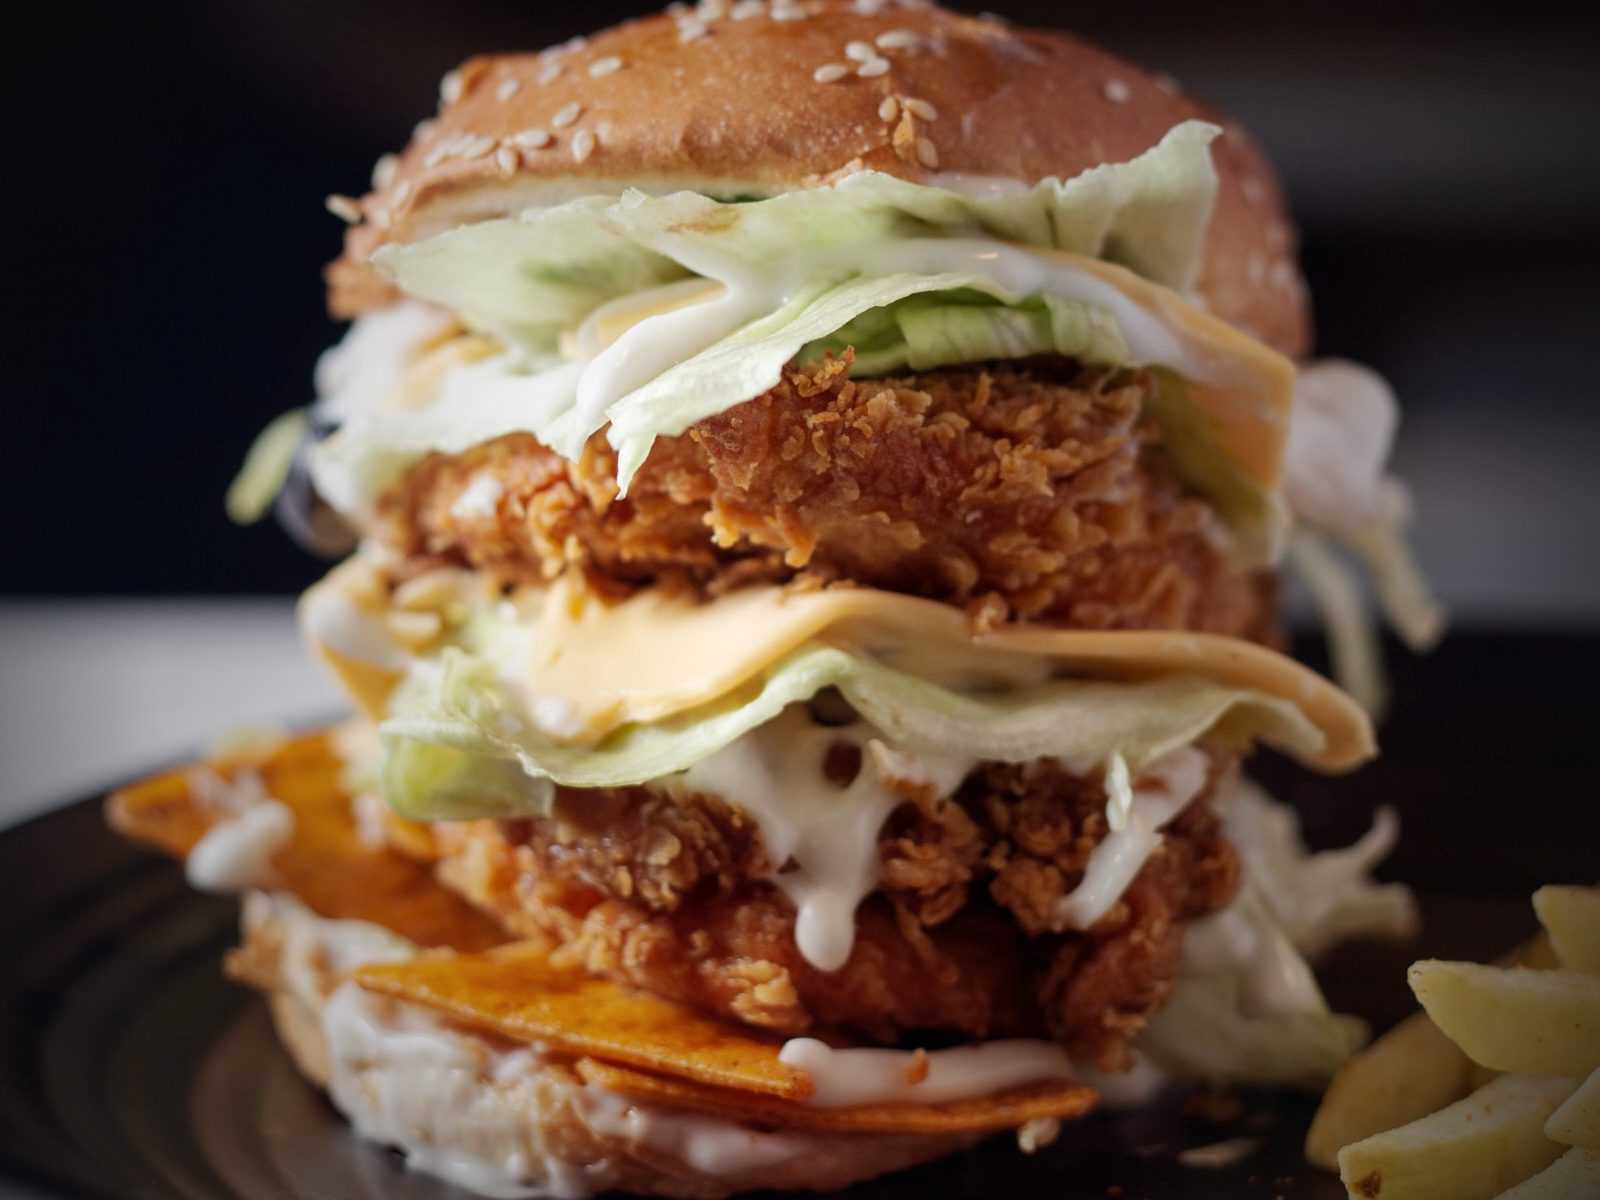
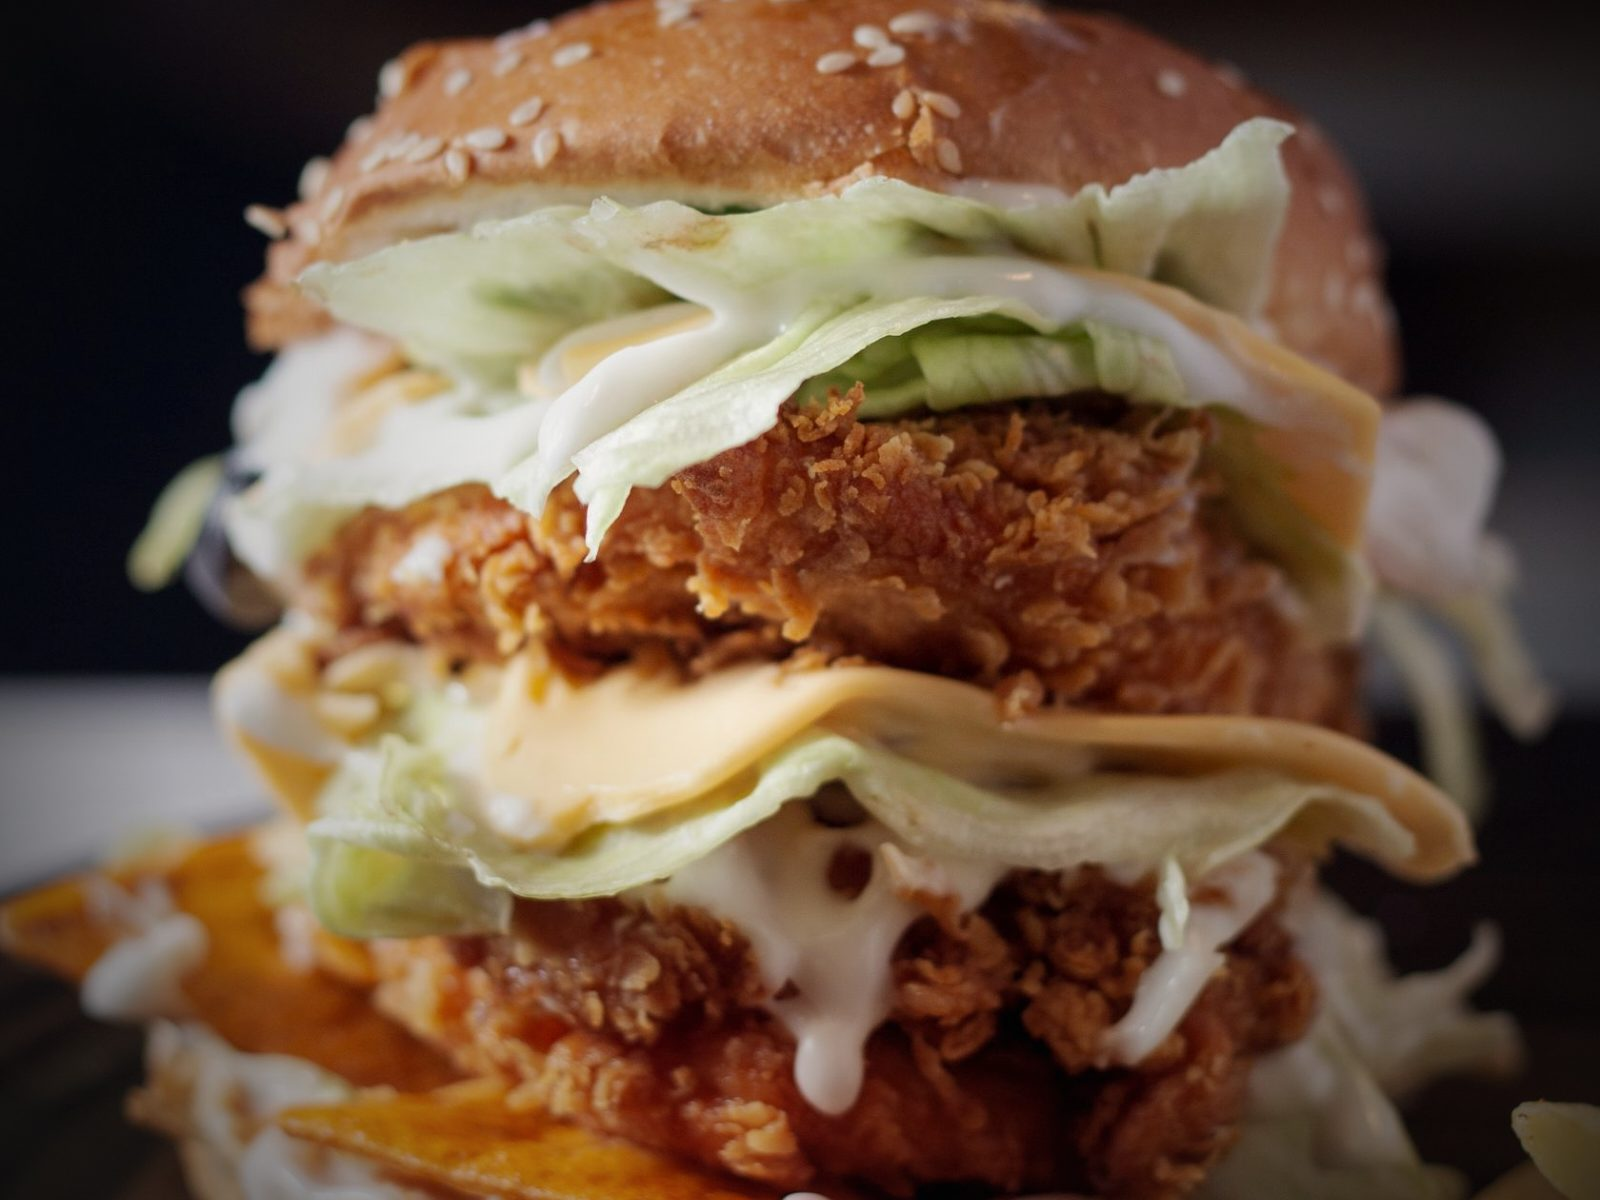
Tighten the firebird crop so the set reads as one
firebird was the only menu photo carrying a pale plate-edge field (bottom-left) and
fries (bottom-right), so at the shared crop it read a shade lighter than the other
five on the grid. Cropped tighter (zoom 0.70 vs 0.82), which drops both corners and
fills the frame with the shattered buttermilk crust — the point of the card. What is
left is bright because fried chicken is light-toned food, not because a backdrop is
leaking in. Only firebird.jpg and its CREDITS note change; the other five re-emit
byte-identical.

diff --git a/public/products/CREDITS.md b/public/products/CREDITS.md
@@ -60,14 +60,13 @@ nothing else. Rejected candidates appear only where they are named as rejected.
   charcoal-black, the cheddar is melted, the onion jam is under it. A few out-of-focus
   fries intrude at the right edge. They are dim and warm and read as part of the plate;
   the vignette takes most of them.
-- **`firebird`** — the shattered buttermilk crust, the point of the card, is legible.
-  This is the least ink-bound photograph of the six: behind the burger on the left is a
-  soft PALE GREY field rather than black, and fries sit in the bottom-right corner. The
-  vignette darkens both without erasing either, so on the grid this card reads a shade
-  lighter than its neighbours. It is the weakest link in the set and it was left alone
-  only because replacing it was outside the scope of this pass — the same
-  shot-on-black rule that condemned the other three applies to it and it is a genuine
-  candidate for a future replacement.
+- **`firebird`** — the shattered buttermilk crust, the point of the card, fills the
+  frame and is fully legible. This frame's bottom-left carried a soft pale-grey
+  plate-edge field and its bottom-right had fries, so at the set's standard crop it
+  read a shade lighter than its neighbours. It is therefore cropped tighter than the
+  rest (zoom 0.70 vs 0.82), which drops both corners; what remains is the golden fried
+  stack, which is intrinsically light-toned food rather than a stray background — an
+  honest brightness, not a backdrop leaking in.
 - Photographs showing bacon were rejected outright wherever it was unmistakable and
   avoidable: `double-flame` (28828556, 10761390), `charcoal-smash` (4628428),
   `cinder-lamb` (34407501, 22119687, 10922929).